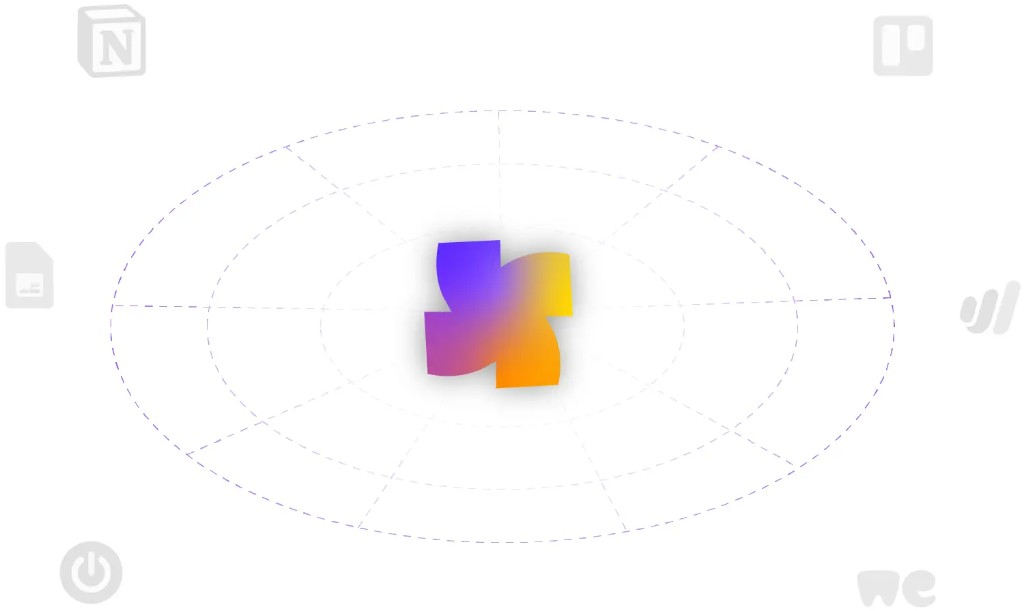
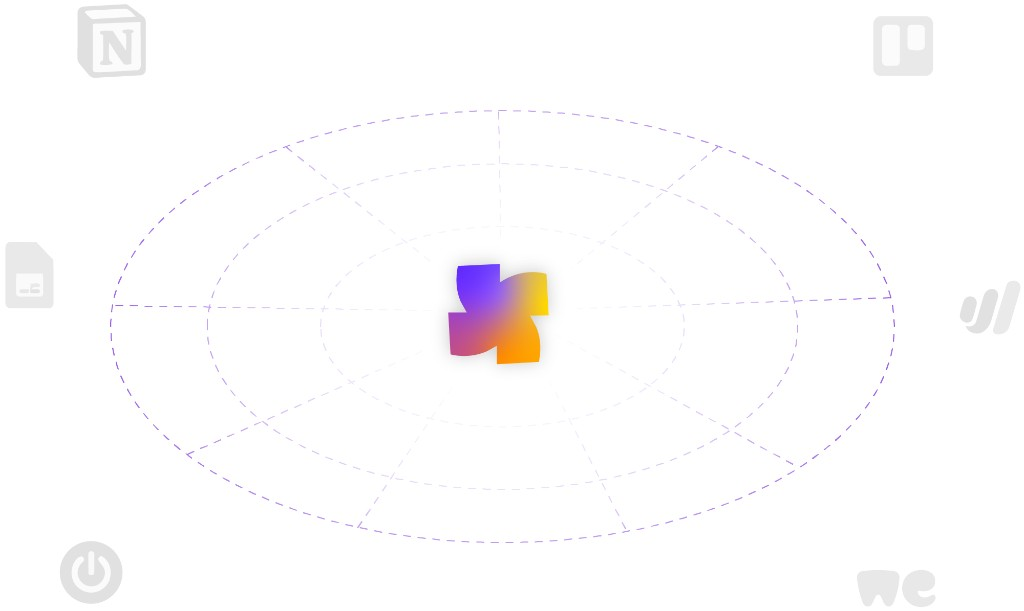
Enhance FAQ section and update styles for improved user interaction
- Adjusted padding and overflow properties in the showcase section for better layout consistency.
- Added a new FAQ support button with updated styles for improved visibility and interaction.
- Updated the image source version in the FeatureSolarSystem component to ensure the latest design is reflected.

Changed region(s): [[0.4062, 0.3732, 0.5938, 0.653]]

diff --git a/public/lance-landing-identical.html b/public/lance-landing-identical.html
@@ -546,8 +546,9 @@
 
   /* ── FEATURE SHOWCASE (alternating) ── */
   .showcase-section {
-    padding: 0 48px 100px;
+    padding: 32px 48px 100px;
     background: #fff;
+    overflow: visible;
   }
 
   .showcase-item {
@@ -557,6 +558,7 @@
     grid-template-columns: 1fr 1fr;
     gap: 72px;
     align-items: center;
+    overflow: visible;
   }
 
   .showcase-item:last-child { margin-bottom: 0; }
@@ -618,7 +620,7 @@
 
   .showcase-img {
     border-radius: 16px;
-    overflow: hidden;
+    overflow: visible;
     box-shadow: 0 24px 72px rgba(155,99,233,0.14), 0 4px 16px rgba(0,0,0,0.06);
     border: 1.5px solid rgba(155,99,233,0.10);
     transition: transform 0.4s ease, box-shadow 0.4s ease;
@@ -627,7 +629,11 @@
     transform: translateY(-4px);
     box-shadow: 0 36px 80px rgba(155,99,233,0.18), 0 8px 24px rgba(0,0,0,0.08);
   }
-  .showcase-img img { width: 100%; display: block; }
+  .showcase-img img {
+    width: 100%;
+    display: block;
+    border-radius: 16px;
+  }
 
   .showcase-divider {
     max-width: 1100px;
@@ -941,6 +947,26 @@
   /* ── FAQ ── */
   .faq-section { background: #fff; padding: 100px 48px; }
   .faq-inner { max-width: 720px; margin: 0 auto; }
+  .faq-support-wrap { margin: 22px 0 40px; }
+  .faq-support-btn {
+    display: inline-block;
+    font-family: 'Plus Jakarta Sans', sans-serif;
+    font-weight: 700;
+    font-size: 14.5px;
+    color: var(--primary);
+    background: #fff;
+    border: 1.5px solid rgba(155, 99, 233, 0.35);
+    padding: 11px 24px;
+    border-radius: 50px;
+    text-decoration: none;
+    letter-spacing: -0.1px;
+    transition: background 0.2s, color 0.2s, border-color 0.2s;
+  }
+  .faq-support-btn:hover {
+    background: var(--primary);
+    color: #fff;
+    border-color: var(--primary);
+  }
 
   .faq-list { margin-top: 44px; display: flex; flex-direction: column; gap: 10px; }
 
@@ -2108,6 +2134,9 @@
     <span class="section-label">✦ FAQ</span>
     <h2 class="section-title">Got questions?</h2>
     <p class="section-sub">If something's still unclear, we're always reachable.</p>
+    <div class="faq-support-wrap">
+      <a href="mailto:[email redacted]" class="faq-support-btn">Contact Support</a>
+    </div>
     <div class="faq-list" style="width:100%; text-align:left;">
       <div class="faq-item">
         <button class="faq-q" onclick="toggleFaq(this)">Is Lance just for freelancers, or can agencies use it too? <span class="faq-icon">+</span></button>

diff --git a/src/components/landing/FeatureSolarSystem.tsx b/src/components/landing/FeatureSolarSystem.tsx
@@ -14,7 +14,7 @@ import {
   X,
 } from "lucide-react";
 
-export const FEATURE_SOLAR_BG = "/landing/feature-solar-system.png?v=4";
+export const FEATURE_SOLAR_BG = "/landing/feature-solar-system.png?v=5";
 
 type FeatureItem = {
   id: string;